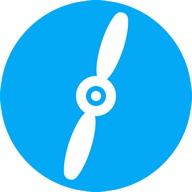
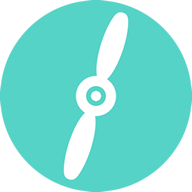
updates

diff --git a/index.html b/index.html
@@ -20,13 +20,13 @@
 		<link rel="icon" type="image/png" sizes="32x32" href="/favicon-32x32.png" />
 		<link rel="icon" type="image/png" sizes="16x16" href="/favicon-16x16.png" />
 		<link rel="manifest" href="/manifest.json">
-		<link rel="mask-icon" href="/safari-pinned-tab.svg" color="#03a9f4" />
+		<link rel="mask-icon" href="/safari-pinned-tab.svg" color="#56D3C7" />
 		<meta name="mobile-web-app-capable" content="yes" />
 		<meta name="apple-mobile-web-app-capable" content="yes" />
 		<meta name="apple-mobile-web-app-title" content="mytushino" />
 		<meta name="application-name" content="mytushino" />
-		<meta name="msapplication-TileColor" content="#03a9f4" />
-		<meta name="theme-color" content="#03a9f4" />
+		<meta name="msapplication-TileColor" content="#56D3C7" />
+		<meta name="theme-color" content="#56D3C7" />
 		<link rel="yandex-tableau-widget" href="/yandex-tableau.json" />
 		<link rel="image_src" href="/image_src.jpg" type="image/jpeg" title="Услуги в Тушино" />
 		<link rel="sitemap" href="/sitemap.xml" type="application/xml" />
@@ -269,7 +269,7 @@
 			<defs>
 				<symbol id="site-logo-icon" viewBox="0 0 136 64">
 					<title>site-logo</title>
-					<path fill="#03A9F4" d="M21,12C10,12,1,21,1,32s9,20,20,20s20-9,20-20S32,12,21,12z"></path>
+					<path fill="#56D3C7" d="M21,12C10,12,1,21,1,32s9,20,20,20s20-9,20-20S32,12,21,12z"></path>
 					<circle fill="#FFFFFF" cx="21" cy="32" r="0.956"></circle>
 					<path fill="#FFFFFF" d="M24.632,33.181c0.545-1.68-0.134-3.463-1.545-4.384c1.024-0.938,2.214-3.091,3.073-5.738	c0.637-1.963,0.967-3.813,0.982-5.193c0.014-1.291-0.434-1.598-0.979-1.776c-0.545-0.177-1.088-0.192-1.835,0.86	c-0.798,1.126-1.617,2.817-2.254,4.779c-0.859,2.647-1.16,5.089-0.882,6.45c-1.682-0.086-3.279,0.957-3.824,2.637	c-0.545,1.68,0.134,3.463,1.545,4.384c-1.024,0.938-2.214,3.091-3.073,5.738c-0.637,1.963-0.967,3.813-0.982,5.193	c-0.014,1.291,0.434,1.598,0.979,1.776c0.545,0.177,1.088,0.192,1.835-0.86c0.798-1.126,1.617-2.817,2.254-4.779	c0.859-2.647,1.16-5.089,0.882-6.45C22.49,35.904,24.087,34.861,24.632,33.181z M20.41,33.818	c-1.003-0.326-1.552-1.405-1.226-2.409c0.326-1.004,1.403-1.554,2.406-1.227c1.003,0.326,1.552,1.405,1.226,2.409	C22.49,33.595,21.413,34.144,20.41,33.818z"></path>
 					<path fill="currentColor" d="M53.69,29.831c-0.563,0-1.025-0.091-1.389-0.272v-1.96c0.188,0.117,0.402,0.215,0.646,0.294	s0.474,0.119,0.69,0.119c0.457,0,0.853-0.149,1.187-0.448s0.694-0.858,1.081-1.679l-4.087-8.877h2.391l2.813,6.671h0.035	l2.698-6.671h2.215l-4.017,9.035c-0.645,1.436-1.283,2.426-1.916,2.971S54.622,29.831,53.69,29.831z"></path>

diff --git a/404.html b/404.html
@@ -15,13 +15,13 @@
 		<link rel="icon" type="image/png" sizes="32x32" href="/favicon-32x32.png" />
 		<link rel="icon" type="image/png" sizes="16x16" href="/favicon-16x16.png" />
 		<link rel="manifest" href="/manifest.json">
-		<link rel="mask-icon" href="/safari-pinned-tab.svg" color="#03a9f4" />
+		<link rel="mask-icon" href="/safari-pinned-tab.svg" color="#56D3C7" />
 		<meta name="mobile-web-app-capable" content="yes" />
 		<meta name="apple-mobile-web-app-capable" content="yes" />
 		<meta name="apple-mobile-web-app-title" content="mytushino" />
 		<meta name="application-name" content="mytushino" />
-		<meta name="msapplication-TileColor" content="#03a9f4" />
-		<meta name="theme-color" content="#03a9f4" />
+		<meta name="msapplication-TileColor" content="#56D3C7" />
+		<meta name="theme-color" content="#56D3C7" />
 		<link rel="yandex-tableau-widget" href="/yandex-tableau.json" />
 		<link rel="image_src" href="/image_src.jpg" type="image/jpeg" title="Услуги в Тушино" />
 		<link rel="sitemap" href="/sitemap.xml" type="application/xml" />
@@ -92,7 +92,7 @@
 			<defs>
 				<symbol id="site-logo-icon" viewBox="0 0 136 64">
 					<title>site-logo</title>
-					<path fill="#03A9F4" d="M21,12C10,12,1,21,1,32s9,20,20,20s20-9,20-20S32,12,21,12z"></path>
+					<path fill="#56D3C7" d="M21,12C10,12,1,21,1,32s9,20,20,20s20-9,20-20S32,12,21,12z"></path>
 					<circle fill="#FFFFFF" cx="21" cy="32" r="0.956"></circle>
 					<path fill="#FFFFFF" d="M24.632,33.181c0.545-1.68-0.134-3.463-1.545-4.384c1.024-0.938,2.214-3.091,3.073-5.738	c0.637-1.963,0.967-3.813,0.982-5.193c0.014-1.291-0.434-1.598-0.979-1.776c-0.545-0.177-1.088-0.192-1.835,0.86	c-0.798,1.126-1.617,2.817-2.254,4.779c-0.859,2.647-1.16,5.089-0.882,6.45c-1.682-0.086-3.279,0.957-3.824,2.637	c-0.545,1.68,0.134,3.463,1.545,4.384c-1.024,0.938-2.214,3.091-3.073,5.738c-0.637,1.963-0.967,3.813-0.982,5.193	c-0.014,1.291,0.434,1.598,0.979,1.776c0.545,0.177,1.088,0.192,1.835-0.86c0.798-1.126,1.617-2.817,2.254-4.779	c0.859-2.647,1.16-5.089,0.882-6.45C22.49,35.904,24.087,34.861,24.632,33.181z M20.41,33.818	c-1.003-0.326-1.552-1.405-1.226-2.409c0.326-1.004,1.403-1.554,2.406-1.227c1.003,0.326,1.552,1.405,1.226,2.409	C22.49,33.595,21.413,34.144,20.41,33.818z"></path>
 					<path fill="currentColor" d="M53.69,29.831c-0.563,0-1.025-0.091-1.389-0.272v-1.96c0.188,0.117,0.402,0.215,0.646,0.294	s0.474,0.119,0.69,0.119c0.457,0,0.853-0.149,1.187-0.448s0.694-0.858,1.081-1.679l-4.087-8.877h2.391l2.813,6.671h0.035	l2.698-6.671h2.215l-4.017,9.035c-0.645,1.436-1.283,2.426-1.916,2.971S54.622,29.831,53.69,29.831z"></path>

diff --git a/libs/mytushino-muicss/css/bundle.css b/libs/mytushino-muicss/css/bundle.css
@@ -548,7 +548,7 @@ button {
 .mui-dropdown__menu > li > a:hover,
 .mui-dropdown__menu > li > a:active {
 	text-decoration: none;
-	background-color: #81d4fa;
+	background-color: #83E8DF;
 }
 
 /*!
@@ -573,7 +573,7 @@ button {
 }
 
 .mui-btn.mui-btn--primary {
-	background-color: #03a9f4;
+	background-color: #56D3C7;
 }
 
 .mui-btn.mui-btn--danger {
@@ -671,7 +671,7 @@ button {
 	display: block;
 	width: 100%;
 	height: 10.000rem;
-	color: #03a9f4;
+	color: #56D3C7;
 	background-color: #eeeeee;
 	border-radius: 0.125rem;
 	cursor: pointer;
@@ -1926,7 +1926,7 @@ img.office-qrcode-img {
 #sidedrawer li > strong:hover,
 #sidedrawer li > strong:active {
 	text-decoration: none;
-	background-color: #81d4fa;
+	background-color: #83E8DF;
 }
 
 #sidedrawer li strong + ul > li a {
@@ -2024,7 +2024,7 @@ img.office-qrcode-img {
 .mui-appbar .mui-dropdown__menu > li > a:hover,
 .mui-appbar .mui-dropdown__menu > li > a:active {
 	color: $ButtonBackgroundDark;
-	background-color: $clr-light-blue-200;
+	background-color: #83E8DF;
 } */
 
 /*!

diff --git a/libs/mytushino-muicss/css/bundle.min.css b/libs/mytushino-muicss/css/bundle.min.css
@@ -548,7 +548,7 @@ button {
 .mui-dropdown__menu > li > a:hover,
 .mui-dropdown__menu > li > a:active {
 	text-decoration: none;
-	background-color: #81d4fa;
+	background-color: #83E8DF;
 }
 
 /*!
@@ -573,7 +573,7 @@ button {
 }
 
 .mui-btn.mui-btn--primary {
-	background-color: #03a9f4;
+	background-color: #56D3C7;
 }
 
 .mui-btn.mui-btn--danger {
@@ -671,7 +671,7 @@ button {
 	display: block;
 	width: 100%;
 	height: 10.000rem;
-	color: #03a9f4;
+	color: #56D3C7;
 	background-color: #eeeeee;
 	border-radius: 0.125rem;
 	cursor: pointer;
@@ -1927,7 +1927,7 @@ img.office-qrcode-img {
 #sidedrawer li > strong:hover,
 #sidedrawer li > strong:active {
 	text-decoration: none;
-	background-color: #81d4fa;
+	background-color: #83E8DF;
 }
 
 #sidedrawer li strong + ul > li a {
@@ -2025,7 +2025,7 @@ img.office-qrcode-img {
 .mui-appbar .mui-dropdown__menu > li > a:hover,
 .mui-appbar .mui-dropdown__menu > li > a:active {
 	color: $ButtonBackgroundDark;
-	background-color: $clr-light-blue-200;
+	background-color: #83E8DF;
 } */
 
 /*!

diff --git a/libs/mytushino-muicss/scss/_main.scss b/libs/mytushino-muicss/scss/_main.scss
@@ -527,7 +527,7 @@ button {
 .mui-dropdown__menu > li > a:hover,
 .mui-dropdown__menu > li > a:active {
 	text-decoration: none;
-	background-color: $clr-light-blue-200;
+	background-color: #83E8DF;
 }
 
 /*!
@@ -1866,7 +1866,7 @@ img.office-qrcode-img {
 #sidedrawer li > strong:hover,
 #sidedrawer li > strong:active {
 	text-decoration: none;
-	background-color: $clr-light-blue-200;
+	background-color: #83E8DF;
 }
 
 #sidedrawer li strong + ul > li a {
@@ -1959,7 +1959,7 @@ img.office-qrcode-img {
 .mui-appbar .mui-dropdown__menu > li > a:hover,
 .mui-appbar .mui-dropdown__menu > li > a:active {
 	color: $ButtonBackgroundDark;
-	background-color: $clr-light-blue-200;
+	background-color: #83E8DF;
 } */
 
 /*!

diff --git a/libs/mytushino-muicss/scss/_material-color.scss b/libs/mytushino-muicss/scss/_material-color.scss
@@ -284,13 +284,13 @@ $clr-blue-a700: map-get($clr-blue-list, "a700");
 //
 
 $clr-light-blue-list: (
- "base": #03a9f4,
+ "base": #56D3C7,
  "50":  #e1f5fe,
  "100": #b3e5fc,
  "200": #81d4fa,
  "300": #4fc3f7,
  "400": #29b6f6,
- "500": #03a9f4,
+ "500": #56D3C7,
  "600": #039be5,
  "700": #0288d1,
  "800": #0277bd,
